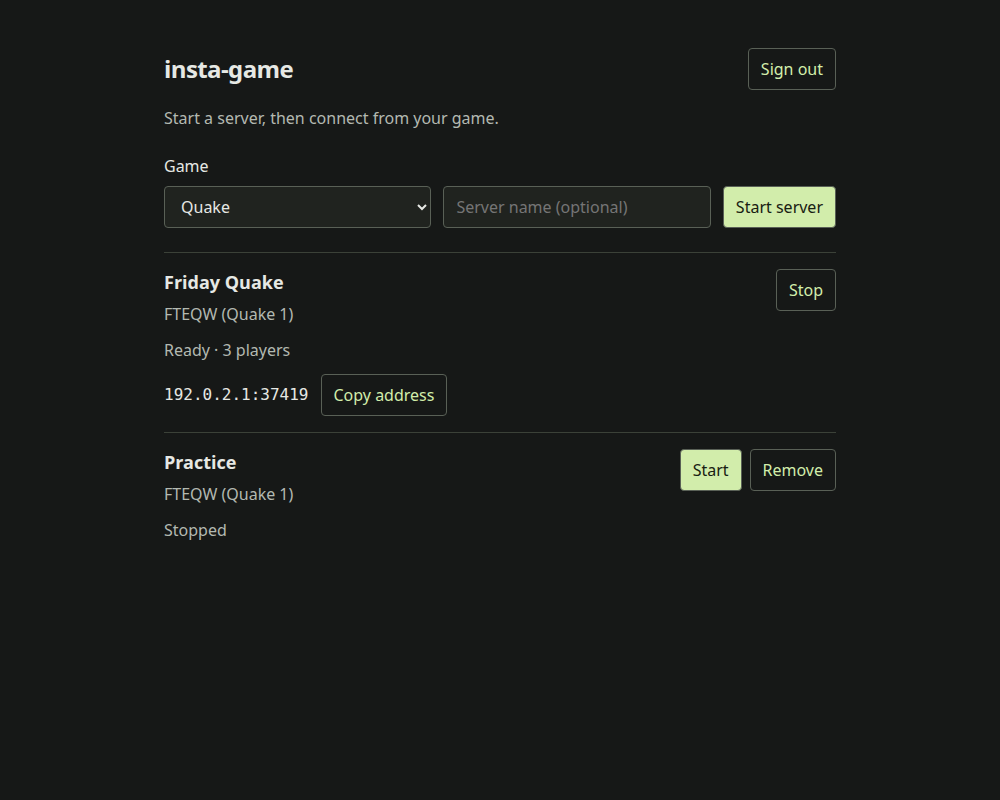
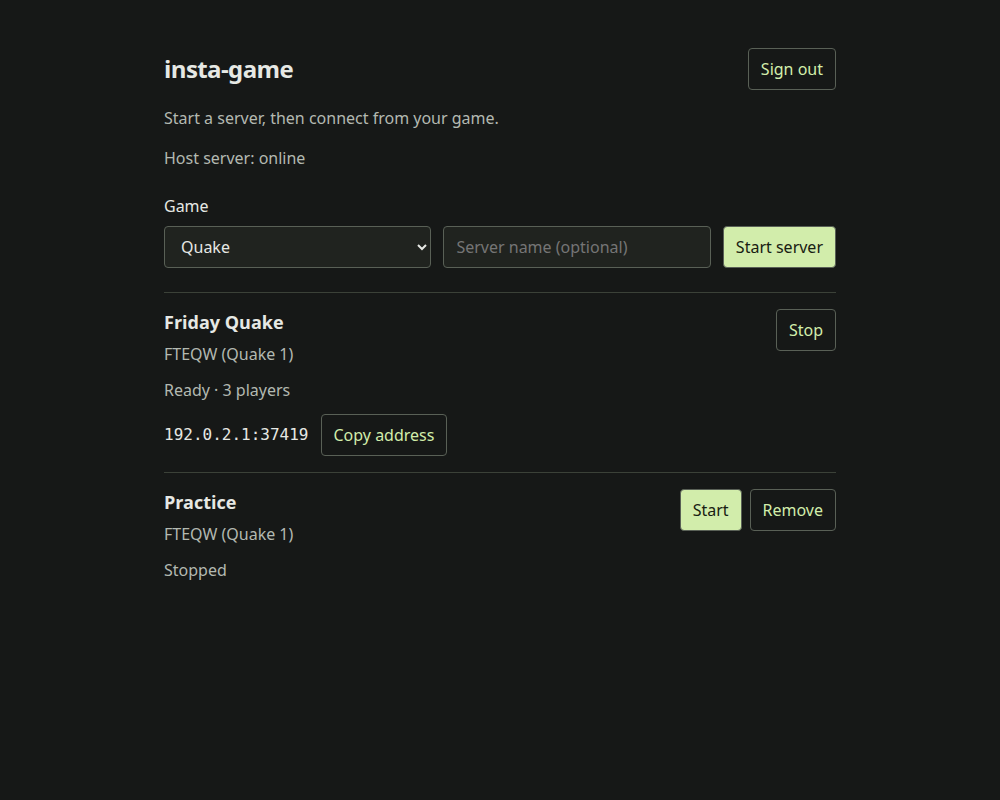
Show EC2 host status on the launch page

diff --git a/internal/lobby/web/app.js b/internal/lobby/web/app.js
@@ -4,6 +4,7 @@ const message = document.querySelector('#message');
 const leave = document.querySelector('#leave');
 const create = document.querySelector('#create');
 const preset = document.querySelector('#preset');
+const host = document.querySelector('#host');
 let submission;
 let key = sessionStorage.getItem('insta-game-invitation') || '';
 let timer;
@@ -31,6 +32,8 @@ function element(tag, text, className) {
   return node;
 }
 function render(body) {
+  host.hidden = false;
+  host.textContent = `Host server: ${{ stopped: 'asleep', pending: 'starting', running: 'online', stopping: 'shutting down', 'shutting-down': 'shutting down', terminated: 'removed' }[body.host] || 'status unavailable'}`;
   const choices = body.presets || [];
   const previous = preset.value;
   if (JSON.stringify(choices) !== preset.dataset.choices) {
@@ -99,7 +102,7 @@ async function refresh() {
     login.hidden = true;
     leave.hidden = false;
     render(body);
-  } catch (error) { message.textContent = error.message; }
+  } catch (error) { message.textContent = error.message; if (key) host.textContent = 'Host server: status unavailable'; }
   finally {
     loading = false;
     clearTimeout(timer);
@@ -116,6 +119,7 @@ function signOut() {
   login.hidden = false;
   leave.hidden = true;
   create.hidden = true;
+  host.hidden = true;
   submission = undefined;
   document.querySelector('#key').value = '';
 }

diff --git a/internal/lobby/web/index.html b/internal/lobby/web/index.html
@@ -16,6 +16,7 @@
 <div class="login-row"><input id="key" type="password" autocomplete="current-password" required><button>Continue</button></div>
 </form>
 <p id="message" role="status" aria-live="polite"></p>
+<p id="host" role="status" hidden></p>
 <form id="create" hidden>
 <label for="preset">Game</label>
 <div class="login-row"><select id="preset" required aria-label="Game"></select><input id="name" placeholder="Server name (optional)" aria-label="Server name" maxlength="80"><button>Start server</button></div>

diff --git a/scripts/test-lobby-browser.py b/scripts/test-lobby-browser.py
@@ -60,6 +60,7 @@ try:
         page.get_by_label("Invitation key").fill("browser-test-key")
         page.get_by_role("button", name="Continue", exact=True).click()
         start = page.get_by_role("button", name="Start", exact=True)
+        expect(page.locator('#host')).to_have_text('Host server: asleep')
         expect(start).to_be_enabled()
         start.click()
         expect(page.locator("#message")).to_have_text("Try again", timeout=10000)
@@ -74,6 +75,7 @@ try:
         page.get_by_role("button", name="Sign out").click()
         expect(page.get_by_label("Invitation key")).to_be_visible()
         expect(page.locator("article")).to_have_count(0)
+        expect(page.locator("#host")).to_be_hidden()
         servers = []
         create_ids = []
 
@@ -101,6 +103,7 @@ try:
         page.get_by_label("Invitation key").fill("browser-test-key")
         page.get_by_role("button", name="Continue", exact=True).click()
         expect(page.get_by_label("Game", exact=True)).to_be_visible()
+        expect(page.locator("#host")).to_have_text("Host server: online")
         for name in ["Friday", "Saturday"]:
             page.get_by_label("Server name", exact=True).fill(name)
             page.get_by_role("button", name="Start server", exact=True).click()
